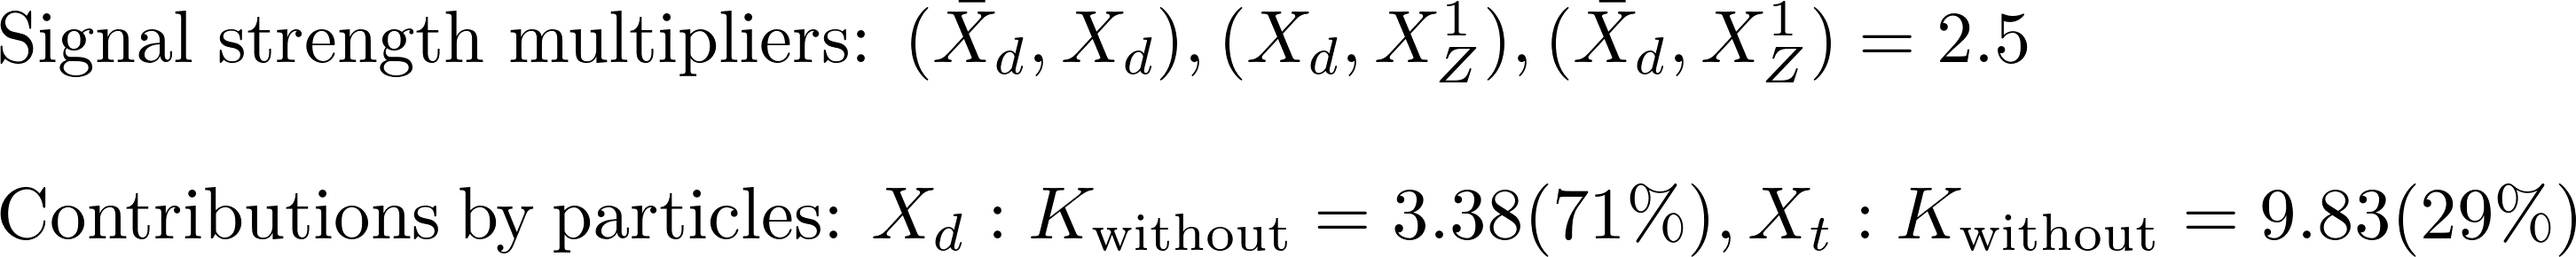
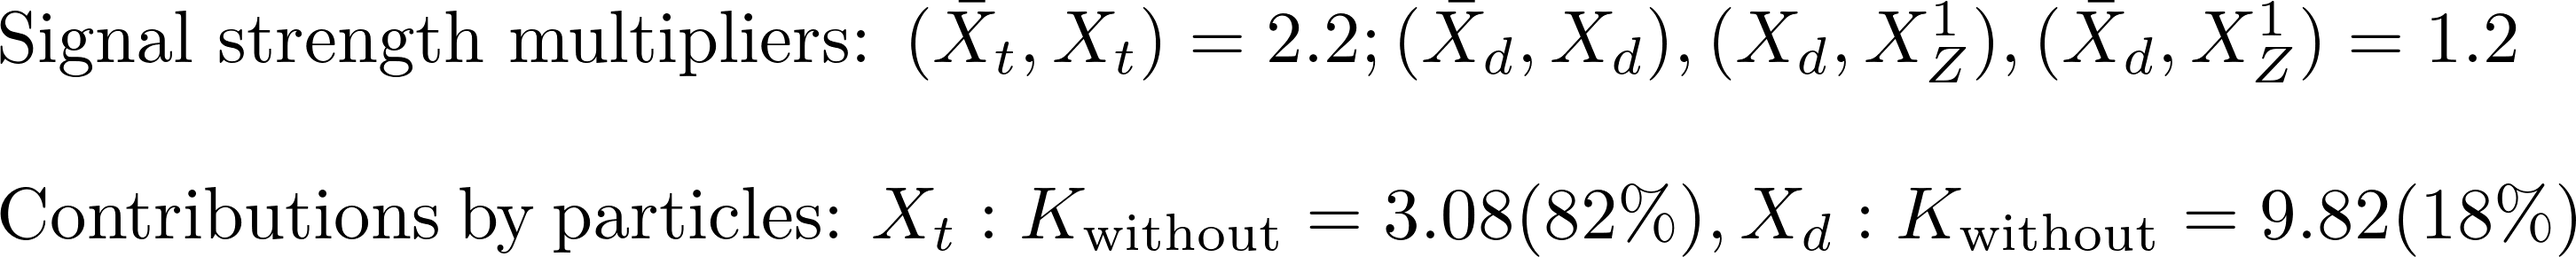
automated update by plotHiscore.py

diff --git a/protomodels/latest/index.html b/protomodels/latest/index.html
@@ -1,31 +1,31 @@
 <html>
 <body>
 <center>
-<table><td><h1>Current best protomodel: K=14.19</h1><td><img height=60px src=https://smodels.github.io/pics/banner.png></table>
+<table><td><h1>Current best protomodel: K=11.68</h1><td><img height=60px src=https://smodels.github.io/pics/banner.png></table>
 </center>
-<b><a href=./hiscore.slha>ProtoModel</a> <a href=./pmodel.py>(dict)</a> produced with <a href=https://smodels.github.io/docs/Validation124signal12>database v1.2.4signal12</a>, combination strategy <a href=./matrix_aggressive.png>aggressive</a> in walker 8 step 411.</b> K plots for: <a href=./M1000022.png?9276083>X<sub>Z</sub><sup>1</sup></a>, <a href=./M1000001.png?9276083>X<sub>d</sub></a>, <a href=./M1000006.png?9276083>X<sub>t</sub></a>. HPD plots for: <a href=./llhd1000001.png?9276083>X<sub>d</sub></a>, <a href=./llhd1000006.png?9276083>X<sub>t</sub></a>. SSM plots for: <a href=./ssm_-1000006_1000006.png?9276083>(x&#772;<sub>t</sub>,X<sub>t</sub>)</a><br>
+<b><a href=./hiscore.slha>ProtoModel</a> <a href=./pmodel.py>(dict)</a> produced with <a href=https://smodels.github.io/docs/Validation124signal15>database v1.2.4signal15</a>, combination strategy <a href=./matrix_aggressive.png>aggressive</a> in walker 24 step 538.</b> K plots for: <a href=./M1000022.png?9276608>X<sub>Z</sub><sup>1</sup></a>, <a href=./M1000001.png?9276608>X<sub>d</sub></a>, <a href=./M1000006.png?9276608>X<sub>t</sub></a>. HPD plots for: <a href=./llhd1000001.png?9276608>X<sub>d</sub></a>, <a href=./llhd1000006.png?9276608>X<sub>t</sub></a>. SSM plots for: <a href=./ssm_-1000006_1000006.png?9276608>(x&#772;<sub>t</sub>,X<sub>t</sub>)</a><br>
 <table width=80%>
 <tr><td>
 <br><b>29 predictions available. Highest r values are:</b><br><ul>
-<li><a href=http://cms-results.web.cern.ch/cms-results/public-results/publications/SUS-19-006/index.html>CMS-SUS-19-006</a>:T2 r=1.30, r<sub>exp</sub>=1.30<br>
-<li><a href=http://cms-results.web.cern.ch/cms-results/public-results/publications/SUS-19-006/index.html>CMS-SUS-19-006</a>:T2tt r=1.16, r<sub>exp</sub>=1.03<br>
-<li><a href=https://atlas.web.cern.ch/Atlas/GROUPS/PHYSICS/PAPERS/SUSY-2016-16/>ATLAS-SUSY-2016-16</a>:T2tt r=0.57, r<sub>exp</sub>=0.76<br>
-<li><a href=https://atlas.web.cern.ch/Atlas/GROUPS/PHYSICS/PAPERS/SUSY-2016-07/>ATLAS-SUSY-2016-07</a>:T2 r=0.43, r<sub>exp</sub>=0.66<br>
-<li><a href=http://cms-results.web.cern.ch/cms-results/public-results/publications/SUS-16-049/index.html>CMS-SUS-16-049</a>:T2tt r=0.43, r<sub>exp</sub>=1.15<br>
+<li><a href=http://cms-results.web.cern.ch/cms-results/public-results/publications/SUS-19-006/index.html>CMS-SUS-19-006</a>:T2tt r=1.22, r<sub>exp</sub>=N/A<br>
+<li><a href=http://cms-results.web.cern.ch/cms-results/public-results/publications/SUS-19-006/index.html>CMS-SUS-19-006</a>:T2 r=0.92, r<sub>exp</sub>=N/A<br>
+<li><a href=http://cms-results.web.cern.ch/cms-results/public-results/publications/SUS-16-049/index.html>CMS-SUS-16-049</a>:T2tt r=0.74, r<sub>exp</sub>=N/A<br>
+<li><a href=http://cms-results.web.cern.ch/cms-results/public-results/publications/SUS-16-050/index.html>CMS-SUS-16-050</a>:T2tt r=0.70, r<sub>exp</sub>=N/A<br>
+<li><a href=http://cms-results.web.cern.ch/cms-results/public-results/publications/SUS-16-051/index.html>CMS-SUS-16-051</a>:T2tt r=0.68, r<sub>exp</sub>=N/A<br>
 </ul>
 <td><br><b>K values without analyses: (contribution)</b><br>
 <ul>
-<li> <a href=http://atlas.web.cern.ch/Atlas/GROUPS/PHYSICS/PAPERS/SUSY-2015-02/>ATLAS-SUSY-2015-02</a>: 3.97 (13%)
-<li> <a href=https://twiki.cern.ch/twiki/bin/view/CMSPublic/PhysicsResultsSUS12028>CMS-SUS-12-028</a>: 2.11 (16%)
-<li> <a href=http://cms-results.web.cern.ch/cms-results/public-results/publications/SUS-16-033/index.html>CMS-SUS-16-033</a>: 2.11 (16%)
-<li> <a href=http://cms-results.web.cern.ch/cms-results/public-results/publications/SUS-16-051/index.html>CMS-SUS-16-051</a>: 2.11 (16%)
-<li> <a href=https://atlas.web.cern.ch/Atlas/GROUPS/PHYSICS/PAPERS/SUSY-2013-02/>ATLAS-SUSY-2013-02</a>: 1.54 (16%)
-<li> <a href=https://atlas.web.cern.ch/Atlas/GROUPS/PHYSICS/PAPERS/SUSY-2016-07/>ATLAS-SUSY-2016-07</a>: -3.55 (23%)
-<td><img width=600px src=./texdoc.png?1602276083>
-<br><font size=-1>Last updated: Fri Oct  9 22:41:23 2020</font>
+<li> <a href=https://twiki.cern.ch/twiki/bin/view/CMSPublic/PhysicsResultsSUS12028>CMS-SUS-12-028</a>: 1.41 (16%)
+<li> <a href=http://cms-results.web.cern.ch/cms-results/public-results/publications/SUS-16-051/index.html>CMS-SUS-16-051</a>: 1.41 (16%)
+<li> <a href=http://cms-results.web.cern.ch/cms-results/public-results/publications/SUS-16-033/index.html>CMS-SUS-16-033</a>: 1.41 (16%)
+<li> <a href=https://atlas.web.cern.ch/Atlas/GROUPS/PHYSICS/PAPERS/SUSY-2013-02/>ATLAS-SUSY-2013-02</a>: 1.37 (16%)
+<li> <a href=https://atlas.web.cern.ch/Atlas/GROUPS/PHYSICS/PAPERS/SUSY-2016-07/>ATLAS-SUSY-2016-07</a>: 0.39 (18%)
+<li> <a href=https://atlas.web.cern.ch/Atlas/GROUPS/PHYSICS/PAPERS/SUSY-2016-16/>ATLAS-SUSY-2016-16</a>: -0.32 (19%)
+<td><img width=600px src=./texdoc.png?1602276609>
+<br><font size=-1>Last updated: Fri Oct  9 22:50:09 2020</font>
 </table><table style="width:80%">
-<td width=45%><img height=580px src=./ruler.png?1602276083><td width=55%><img height=380px src=./decays.png?1602276083>
-<font size=-3><iframe type="text/html" height="220px" width="100%s" frameborder="0" src="./rawnumbers.html?1602276083"></iframe></font>
+<td width=45%><img height=580px src=./ruler.png?1602276609><td width=55%><img height=380px src=./decays.png?1602276609>
+<font size=-3><iframe type="text/html" height="220px" width="100%s" frameborder="0" src="./rawnumbers.html?1602276609"></iframe></font>
 </table>
 </body>
 </html>

diff --git a/protomodels/latest/rawnumbers.html b/protomodels/latest/rawnumbers.html
@@ -1,10 +1,10 @@
 <table>
 <tr><th>Analysis Name</th><th>Type</th><th>Dataset</th><th>Topos</th><th>Observed</th><th>Expected</th><th>Approx &sigma;</th><th>Particles</th><th>Signal</th>
 </tr>
-<tr><td><a href=https://atlas.web.cern.ch/Atlas/GROUPS/PHYSICS/PAPERS/SUSY-2013-02/>ATLAS-SUSY-2013-02</a></td><td>em</td> <td>SR4jt</td><td>T2</td><td>6</td><td>2.5 +/- 1</td><td style="text-align:right">1.9 &sigma;</td><td style="text-align:right">X<sub>d</sub></td><td style="text-align:right">2</td></tr>
-<tr><td><a href=http://atlas.web.cern.ch/Atlas/GROUPS/PHYSICS/PAPERS/SUSY-2015-02/>ATLAS-SUSY-2015-02</a></td><td>em</td> <td>SR1</td><td>T2tt</td><td>5</td><td>5.5 +/- 0.72</td><td style="text-align:right">-0.2 &sigma;</td><td style="text-align:right">X<sub>t</sub></td><td style="text-align:right">2</td></tr>
-<tr><td><a href=https://atlas.web.cern.ch/Atlas/GROUPS/PHYSICS/PAPERS/SUSY-2016-07/>ATLAS-SUSY-2016-07</a></td><td>em</td> <td>4j_Meff_1800</td><td>T2</td><td>77</td><td>49 +/- 7</td><td style="text-align:right">2.8 &sigma;</td><td style="text-align:right">X<sub>d</sub></td><td style="text-align:right">16</td></tr>
-<tr><td><a href=https://twiki.cern.ch/twiki/bin/view/CMSPublic/PhysicsResultsSUS12028>CMS-SUS-12-028</a></td><td>ul</td> <td>-</td><td>T2</td><td> 20.5 fb </td><td> 18.3 fb</td><td style="text-align:right">0.2 &sigma;</td><td style="text-align:right">X<sub>d</sub></td><td style="text-align:right">2.22 fb</td></tr>
-<tr><td><a href=http://cms-results.web.cern.ch/cms-results/public-results/publications/SUS-16-033/index.html>CMS-SUS-16-033</a></td><td>ul</td> <td>-</td><td>T2</td><td> 49.1 fb </td><td> 21.3 fb</td><td style="text-align:right">2.6 &sigma;</td><td style="text-align:right">X<sub>d</sub></td><td style="text-align:right">27.79 fb</td></tr>
-<tr><td><a href=http://cms-results.web.cern.ch/cms-results/public-results/publications/SUS-16-051/index.html>CMS-SUS-16-051</a></td><td>ul</td> <td>-</td><td>T2tt</td><td> 56.1 fb </td><td> 25.5 fb</td><td style="text-align:right">2.4 &sigma;</td><td style="text-align:right">X<sub>t</sub></td><td style="text-align:right">30.62 fb</td></tr>
+<tr><td><a href=https://atlas.web.cern.ch/Atlas/GROUPS/PHYSICS/PAPERS/SUSY-2013-02/>ATLAS-SUSY-2013-02</a></td><td>em</td> <td>SR6jtp</td><td>T2</td><td>5</td><td>4.9 +/- 1.6</td><td style="text-align:right">0.0 &sigma;</td><td style="text-align:right">X<sub>d</sub></td><td style="text-align:right">0</td></tr>
+<tr><td><a href=https://atlas.web.cern.ch/Atlas/GROUPS/PHYSICS/PAPERS/SUSY-2016-07/>ATLAS-SUSY-2016-07</a></td><td>em</td> <td>5j_Meff_2000</td><td>T2</td><td>86</td><td>65 +/- 7</td><td style="text-align:right">2.0 &sigma;</td><td style="text-align:right">X<sub>d</sub></td><td style="text-align:right">17</td></tr>
+<tr><td><a href=https://atlas.web.cern.ch/Atlas/GROUPS/PHYSICS/PAPERS/SUSY-2016-16/>ATLAS-SUSY-2016-16</a></td><td>em</td> <td>tN_med</td><td>T2tt</td><td>56</td><td>36.3 +/- 6.6</td><td style="text-align:right">2.2 &sigma;</td><td style="text-align:right">X<sub>t</sub></td><td style="text-align:right">15</td></tr>
+<tr><td><a href=https://twiki.cern.ch/twiki/bin/view/CMSPublic/PhysicsResultsSUS12028>CMS-SUS-12-028</a></td><td>ul</td> <td>-</td><td>T2</td><td> 24.5 fb </td><td> 22.3 fb</td><td style="text-align:right">0.2 &sigma;</td><td style="text-align:right">X<sub>d</sub></td><td style="text-align:right">2.22 fb</td></tr>
+<tr><td><a href=http://cms-results.web.cern.ch/cms-results/public-results/publications/SUS-16-033/index.html>CMS-SUS-16-033</a></td><td>ul</td> <td>-</td><td>T2</td><td> 52.6 fb </td><td> 24.8 fb</td><td style="text-align:right">2.2 &sigma;</td><td style="text-align:right">X<sub>d</sub></td><td style="text-align:right">27.79 fb</td></tr>
+<tr><td><a href=http://cms-results.web.cern.ch/cms-results/public-results/publications/SUS-16-051/index.html>CMS-SUS-16-051</a></td><td>ul</td> <td>-</td><td>T2tt</td><td> 56.0 fb </td><td> 25.4 fb</td><td style="text-align:right">2.4 &sigma;</td><td style="text-align:right">X<sub>t</sub></td><td style="text-align:right">30.62 fb</td></tr>
 </table>

diff --git a/protomodels/latest/pmodel.py b/protomodels/latest/pmodel.py
@@ -1,1 +1,1 @@
-{'masses': {1000022: 463.194, 1000001: 965.013, 1000006: 839.728}, 'ssmultipliers': {(1000022, 1000022): 0.001, (1000001, 1000001): 1.152, (-1000001, 1000001): 2.541, (-1000001, -1000001): 0.331, (1000001, 1000022): 2.541, (-1000001, 1000022): 2.541, (1000006, 1000006): 0.995, (-1000006, 1000006): 0.995, (-1000006, -1000006): 0.995, (1000006, 1000022): 0.995, (-1000006, 1000022): 0.995, (1000001, 1000006): 0.995, (-1000006, 1000001): 0.995, (-1000001, 1000006): 0.995, (-1000006, -1000001): 0.995}, 'decays': {1000022: {}, 1000001: {(1000022, 1): 1.0}, 1000006: {(1000022, 6): 1.0}}, 'timestamp': 'Fri Oct  9 22:40:52 2020', 'Z': 4.212, 'K': 14.187, 'walkerid': 8, 'step': 411, 'codever': '1.0', 'dbver': '1.2.4signal12'}
+{'masses': {1000022: 502.142, 1000006: 866.097, 1000001: 964.932}, 'ssmultipliers': {(1000022, 1000022): 6.191, (1000006, 1000006): 2.725, (-1000006, 1000006): 2.248, (-1000006, -1000006): 2.725, (1000006, 1000022): 2.725, (-1000006, 1000022): 2.725, (1000001, 1000001): 1.181, (-1000001, 1000001): 1.181, (-1000001, -1000001): 1.181, (1000001, 1000022): 1.17, (-1000001, 1000022): 1.181, (1000001, 1000006): 1.181, (-1000001, 1000006): 1.181, (-1000006, 1000001): 1.181, (-1000006, -1000001): 1.181}, 'decays': {1000022: {}, 1000006: {(1000022, 6): 1.0}, 1000001: {(1000022, 1): 1.0}}, 'timestamp': 'Fri Oct  9 22:49:41 2020', 'Z': 3.935, 'K': 11.683, 'walkerid': 24, 'step': 538, 'codever': '1.0', 'dbver': '1.2.4signal15'}
